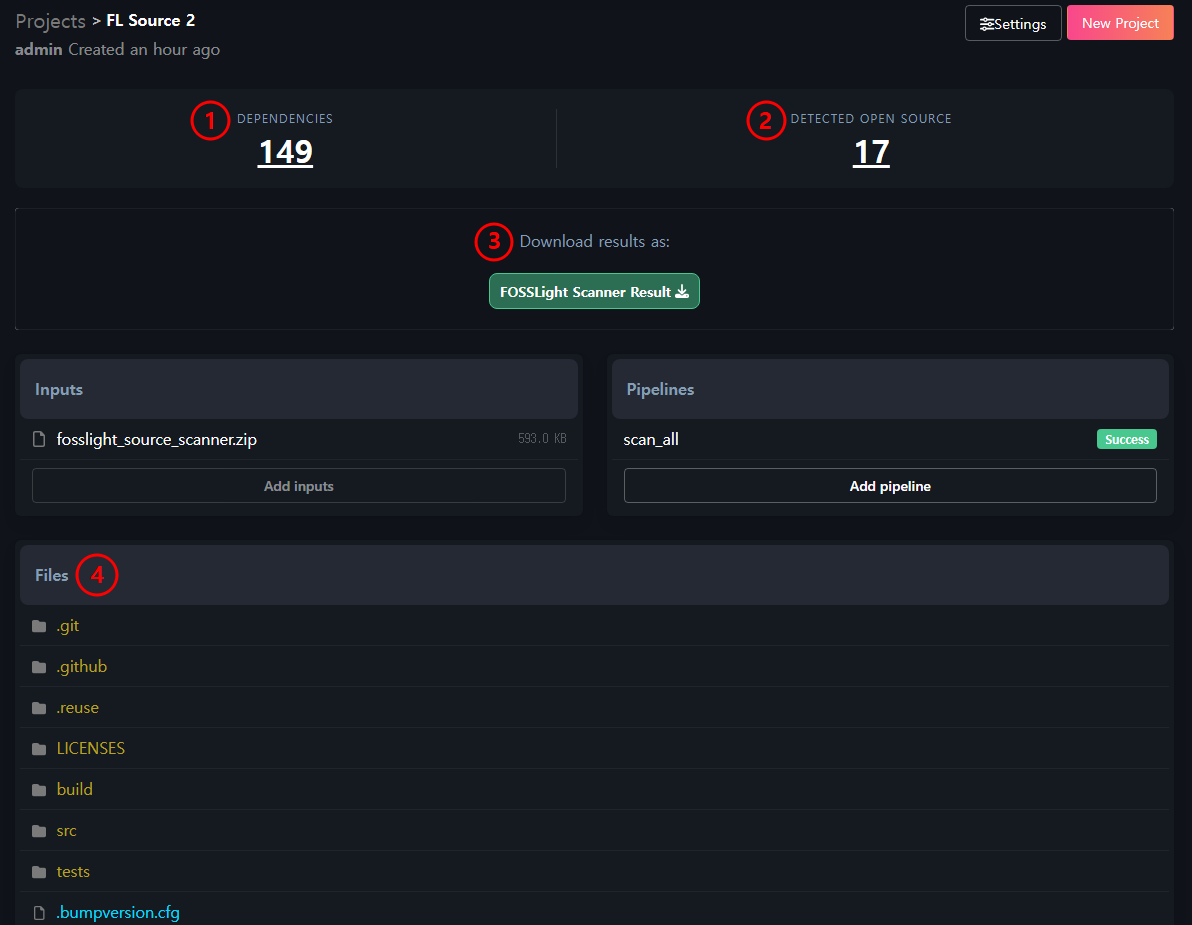
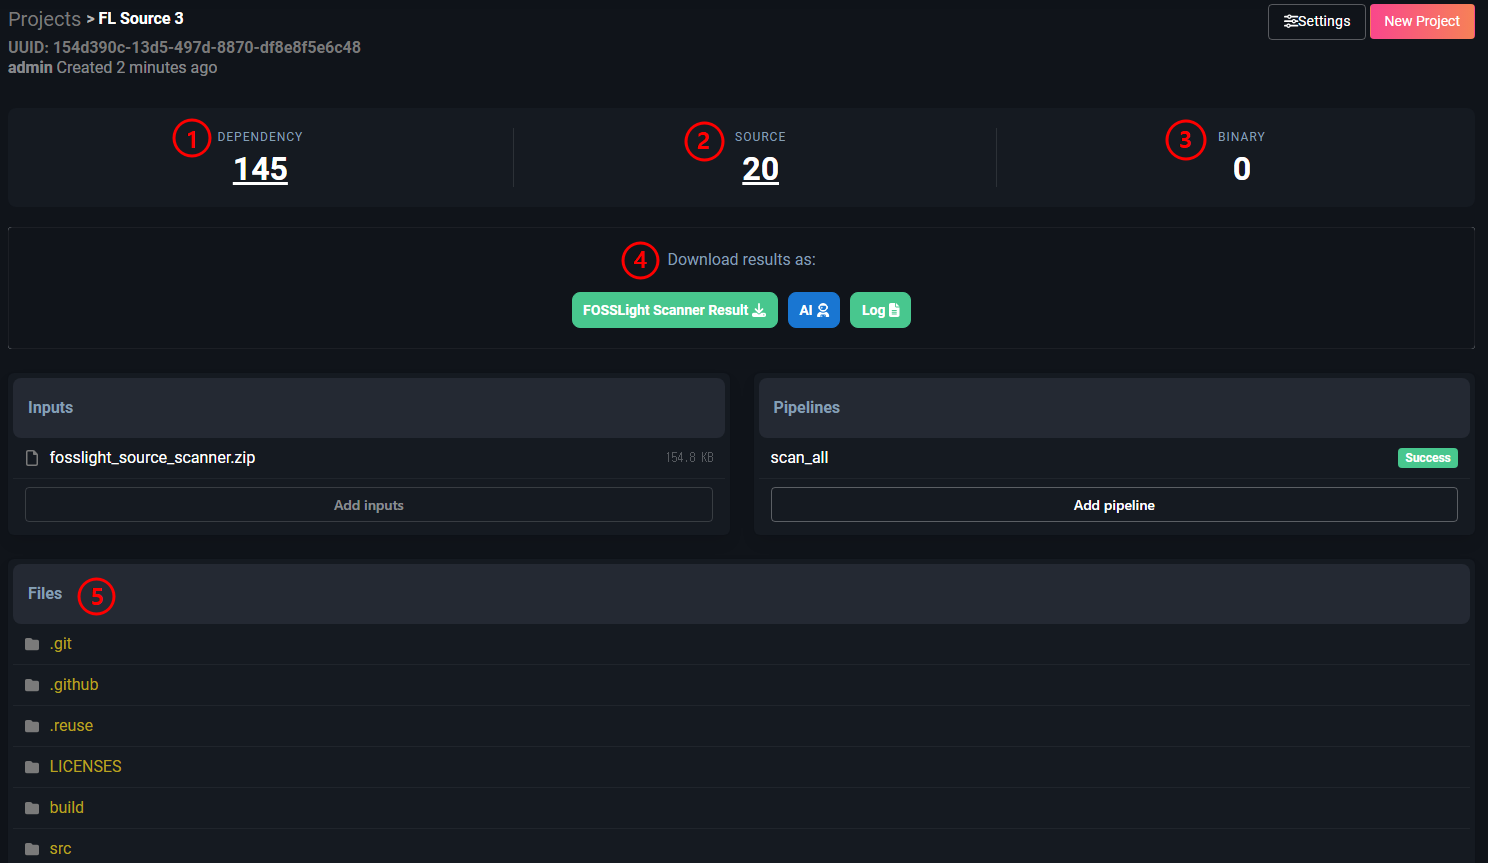
docs(fl_ss): update analysis result section

diff --git a/scanner_service/README.md b/scanner_service/README.md
@@ -62,17 +62,20 @@ Source, binary and dependency analysis is performed using [FOSSLight Scanner](ht
 ### Analysis Result
 {: .specific-title} 
 ![analysis_result](images/7_fl_ss_analysis_result.png){: .styled-image}  
-1. **Dependencies**
-    - The number displayed under Dependencies indicates the count of dependency analysis results. Clicking this number allows you to view the list of open source packages detected through dependency analysis.
-    ![dependencies](images/7_fl_ss_dependencies.png){: .styled-image}
-2. **Detected Open Source**
-    - The number displayed under Detected Open Source indicates the count of source and binary analysis results. Clicking this number allows you to view the list of open source detected through source and binary analysis.
-    ![detected_opensource](images/7_fl_ss_detected_opensource.png){: .styled-image}  
+1. **Dependency**
+    - The number displayed under Dependency indicates the count of dependency analysis results. Clicking this number allows you to view the list of open source packages detected through dependency analysis.
+    ![dependency](images/7_fl_ss_dependencies.png){: .styled-image}
+2. **Source**
+    - The number displayed under Source indicates the count of source analysis results. Clicking this number allows you to view the list of open source detected through source analysis.
+    ![source](images/7_fl_ss_source.png){: .styled-image}  
         - When you click on the file name in the Path column, you can view the contents of that file.
         ![file_viewer](images/7_fl_ss_file_viewer.png){: .styled-image}
-3. **Download results**
-    - You can download the analysis result file.
-        - FOSSLight Scanner Result : This is a report that can be uploaded during the [Identification](https://fosslight.org/hub-guide-en/tutorial/1_project/2_Identification/) process in FOSSLight Hub.
-4. **Files**
+3. **Binary**
+    - The number displayed under Binary indicates the count of binary analysis results. Clicking this number allows you to view the list of open source detected through binary analysis.
+4. **Download results**
+    - FOSSLight Scanner Result : You can download the analysis result file in a report format that can be uploaded during the [Identification](https://fosslight.org/hub-guide-en/tutorial/1_project/2_Identification/) process in FOSSLight Hub.
+    - AI : You can view an AI-generated summary of the FOSSLight Scanner analysis results, along with risk levels and recommended actions.
+    - Log : You can download the FOSSLight Scanner execution log file.
+5. **Files**
     - You can view the detection results for each analyzed file in File Tree format. (Since these are file-specific detection results, FOSSLight Dependency results are not included)  
 